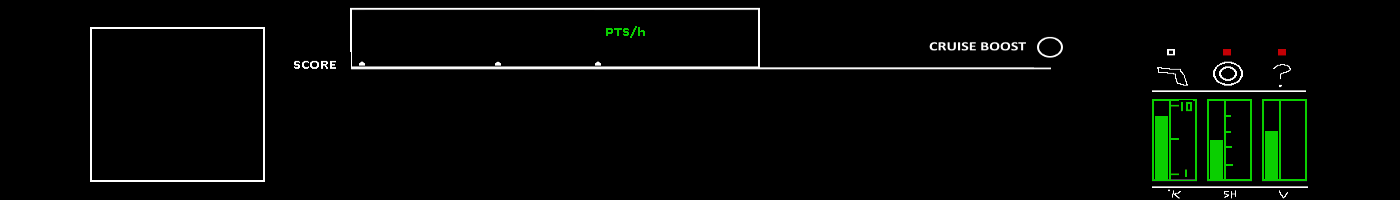
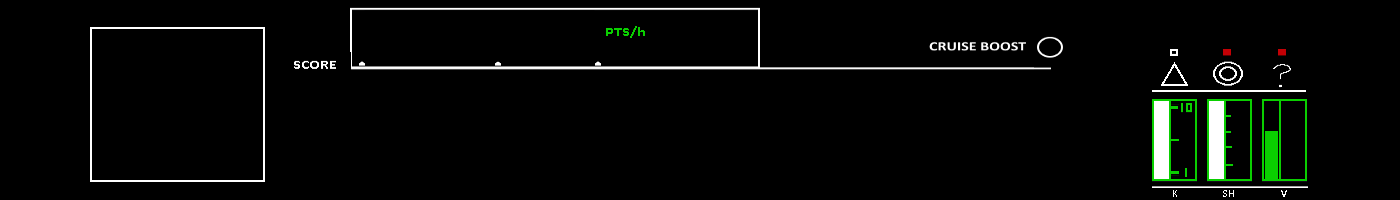
added bottom right weapon UI

diff --git a/states/credits_state.js b/states/credits_state.js
@@ -7,28 +7,50 @@ var credits_state = {
       this.add_credit(credit.TITLE, credit.NAME);
     }, this);
 
-    this.credits_button = game.add.button(50, 800, "debug_button", function() { game.state.start('menu'); }, this);
+    this.credits_button = game.add.button(
+      150,
+      850,
+      "debug_button",
+      function() {
+        game.state.start("menu");
+      },
+      this
+    );
     this.credits_button.width = this.credits_button.width * 2.5;
-    this.credits_button.anchor.setTo(0.5, 0.5);
-    this.credits_button_text = Utils.create_text("BACK", 67, 805, 25, BLACK_HEX_COLOR);
+    this.credits_button.anchor.set(0.5, 0.5);
+    this.credits_button_text = Utils.create_text(
+      "BACK",
+      150,
+      856,
+      30,
+      BLACK_HEX_COLOR
+    );
     this.credits_button_text.anchor.setTo(0.5, 0.5);
     //this.credits_button.addChild(this.credits_button_text);
   },
 
   add_credit: function(title, name) {
-    var title_text = Utils.create_centered_stroke_text(
-      title,
-      1000,
-      40
-    );
-    var name_text = Utils.create_centered_stroke_text(
-      name,
-      1045,
-      50
-    );
+    var title_text = Utils.create_centered_stroke_text(title, 1000, 40);
+    var name_text = Utils.create_centered_stroke_text(name, 1045, 50);
 
-    game.add.tween(title_text).to( { y: -500 }, 20000, Phaser.Easing.Cubic.Out, true, this.credit_count * 5000);
-    game.add.tween(name_text).to(  { y: -200 }, 20000, Phaser.Easing.Cubic.Out, true, this.credit_count * 5000);
+    game.add
+      .tween(title_text)
+      .to(
+        { y: -500 },
+        20000,
+        Phaser.Easing.Cubic.Out,
+        true,
+        this.credit_count * 5000
+      );
+    game.add
+      .tween(name_text)
+      .to(
+        { y: -200 },
+        20000,
+        Phaser.Easing.Cubic.Out,
+        true,
+        this.credit_count * 5000
+      );
     this.credit_count++;
   },
 

diff --git a/states/menu_state.js b/states/menu_state.js
@@ -136,6 +136,30 @@ var menu_state = {
       }
     }, this);
 
+    // credits button
+
+    this.credits_button = game.add.button(
+      150,
+      850,
+      "debug_button",
+      function() {
+        game.state.start("credits");
+      },
+      this
+    );
+    this.credits_button.width = this.credits_button.width * 4;
+    this.credits_button.anchor.set(0.5, 0.5);
+
+    // 30, 80
+    this.credits_text = Utils.create_text(
+      "CREDITS",
+      150,
+      856,
+      30,
+      BLACK_HEX_COLOR
+    );
+    this.credits_text.anchor.set(0.5, 0.5);
+
     //this.music1.play();
   },
 
@@ -150,5 +174,15 @@ var menu_state = {
     game.camera.onFadeComplete.add(function() {
       game.state.start("play");
     }, this);
+  },
+  destroy: function() {
+    this.credits_button.destroy();
+    this.credits_text.destroy();
+    this.music1.destroy();
+    this.music2.destroy();
+    this.music3.destroy();
+    this.music4.destroy();
+    this.new_music.destroy();
+    this.start_sound.destroy();
   }
 };

diff --git a/ui/shield_weapon_display.js b/ui/shield_weapon_display.js
@@ -1,0 +1,24 @@
+class ShieldWeaponDisplay {
+  constructor(player) {
+    this.player = player;
+
+    this.green_bar = game.add.sprite(1216, 880, 'green_bar');
+    this.green_bar.anchor.set(0.5, 1);
+    this.original_height = this.green_bar.height;
+    this.green_bar.height = 0;
+    this.rising = false;
+    this.falling = false;
+  }
+
+  update() {
+    if(this.player.circle_weapon.active && !this.rising) {
+      this.rising = true;
+      var tween = game.add.tween(this.green_bar).to( {height: this.original_height}, 50, Phaser.Easing.Linear.None, true);
+      tween.onComplete.addOnce(function() { this.rising = false; }, this);
+    } else if(!this.player.circle_weapon.active && this.green_bar.height == this.original_height && !this.falling) {
+      this.falling = true;
+      var tween = game.add.tween(this.green_bar).to( {height: 0}, 100, Phaser.Easing.Linear.None, true);
+      tween.onComplete.addOnce(function() { this.falling = false; }, this);
+    }
+  }
+}

diff --git a/ui/root_ui.js b/ui/root_ui.js
@@ -5,10 +5,14 @@ class RootUI {
     this.level_display = new LevelDisplay(current_level_index);
     this.remaining_enemies_bar = new RemainingEnemiesBar(level_data);
     this.score = new Score();
+    this.bullet_weapon_display = new BulletWeaponDisplay(player);
+    this.shield_weapon_display = new ShieldWeaponDisplay(player);
   }
 
   update() {
     this.score.update();
+    this.bullet_weapon_display.update();
+    this.shield_weapon_display.update();
   }
 
   render() {
@@ -22,5 +26,6 @@ class RootUI {
     this.level_display.destroy();
     this.remaining_enemies_bar.destroy();
     this.score.destroy();
+    this.bullet_weapon_display.destroy();
   }
 }

diff --git a/ui/bullet_weapon_display.js b/ui/bullet_weapon_display.js
@@ -1,0 +1,21 @@
+class BulletWeaponDisplay {
+  constructor(player) {
+    this.player = player;
+
+    this.green_bar_sprite = game.add.sprite(1161, 880, 'green_bar');
+    this.green_bar_sprite.anchor.set(0.5, 1);
+    this.original_height = this.green_bar_sprite.height;
+    this.green_bar_sprite.height = 0;
+  }
+
+  update() {
+    this.green_bar_sprite.height = (this.player.bullet_weapon.heat / MAX_HEAT) * this.original_height;
+    if(this.player.bullet_weapon.overheated) {
+      this.green_bar_sprite.height = this.original_height;
+    }
+  }
+
+  destroy() {
+    this.green_bar_sprite.destroy();
+  }
+}

diff --git a/boss_reactionary_turret.js b/boss_reactionary_turret.js
@@ -55,7 +55,7 @@ BossReactionaryTurret.prototype.damaged = function() {
 
     var player_pos = this.player.sprite.position.clone();
     Phaser.Point.rotate(player_pos, this.worldPosition.x, this.worldPosition.y, ((index * this.bullet_spread) - (this.bullets.length * this.bullet_spread / 2)), true);
-    console.log("spread: " + ((index * this.bullet_spread) - (this.bullets.length * this.bullet_spread / 2)));
+    //console.log("spread: " + ((index * this.bullet_spread) - (this.bullets.length * this.bullet_spread / 2)));
 
     if (this.aim_at == "PLAYER") {
       this.game.physics.arcade.moveToXY(

diff --git a/player/bullet_weapon.js b/player/bullet_weapon.js
@@ -1,5 +1,5 @@
 const BULLET_ADDITIONAL_SPEED = 1000;
-const BULLET_LIFESPAN = 1000;
+const BULLET_LIFESPAN = 2000;
 const BULLET_DELAY = 100;
 
 const HEAT_GENERATED_PER_SHOT = 4;
@@ -50,7 +50,7 @@ class BulletWeapon {
   }
 
   render() {
-    game.debug.text(this.heat, 200, 14, "#00ff00");
+    //game.debug.text(this.heat, 200, 14, "#00ff00");
   }
 
   fire_bullet() {

diff --git a/states/load_state.js b/states/load_state.js
@@ -74,6 +74,10 @@ var load_state = {
       "remaining_enemies_black_bar",
       ui_images_path + "remaining_enemies_black_bar.png"
     );
+    game.load.image(
+      "green_bar",
+      ui_images_path + "green_bar.png"
+    );
     game.load.image("spinner", ui_images_path + "spinner.png");
     game.load.image("x", ui_images_path + "x.png");
 

diff --git a/index.php b/index.php
@@ -30,6 +30,8 @@
     <script type="text/javascript" src="ui/score.js"></script>
     <script type="text/javascript" src="ui/level_display.js"></script>
     <script type="text/javascript" src="ui/remaining_enemies_bar.js"></script>
+    <script type="text/javascript" src="ui/bullet_weapon_display.js"></script>
+    <script type="text/javascript" src="ui/shield_weapon_display.js"></script>
 
     <script type="text/javascript" src="utils.js"></script>
     <script type="text/javascript" src="controls.js"></script>
